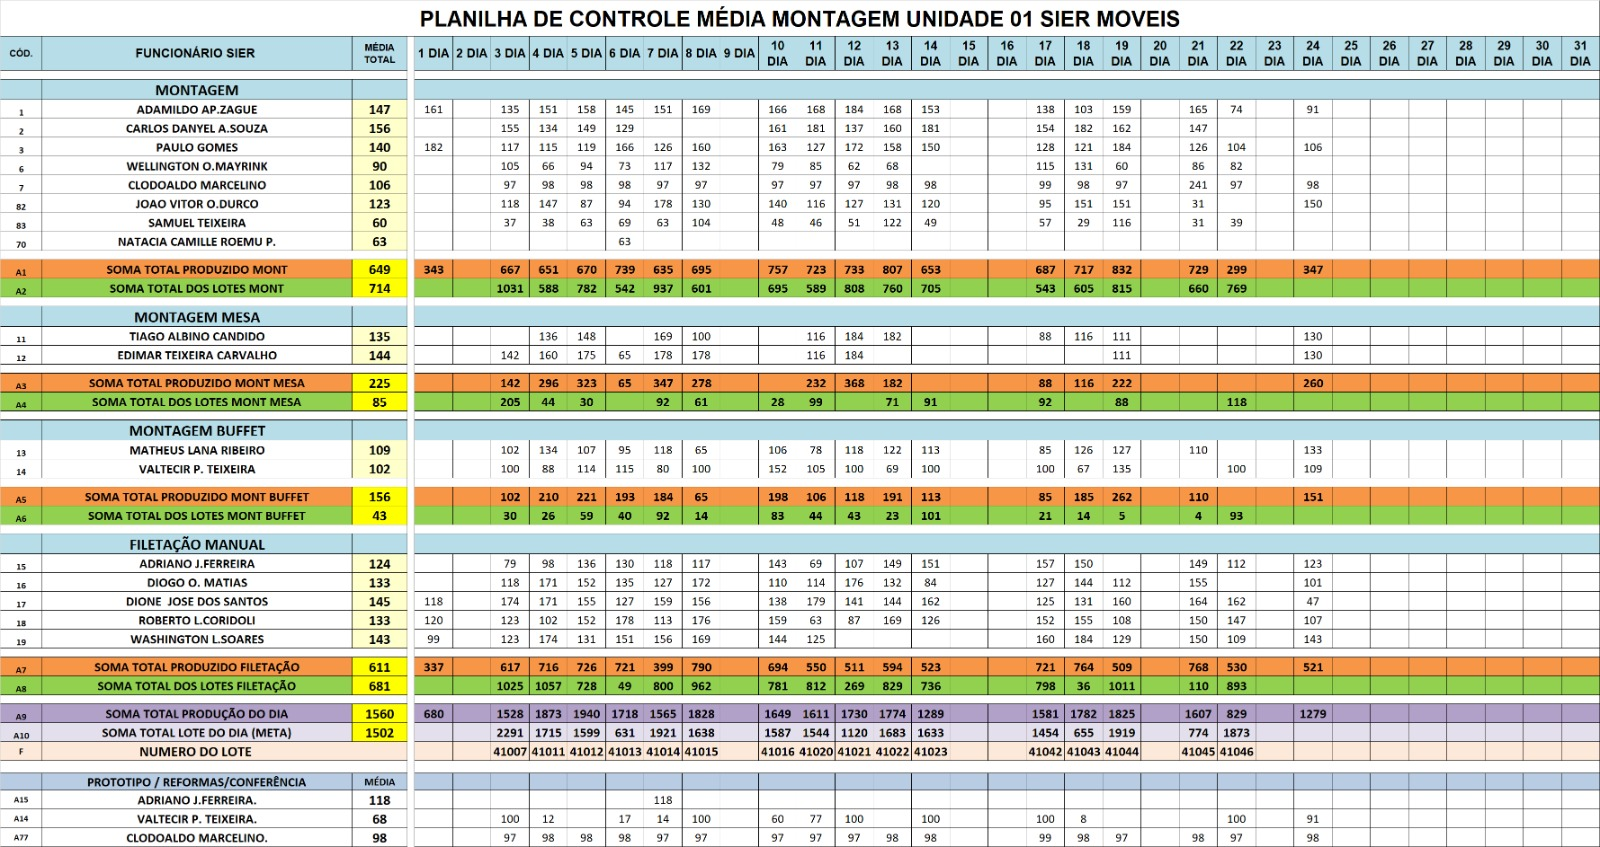
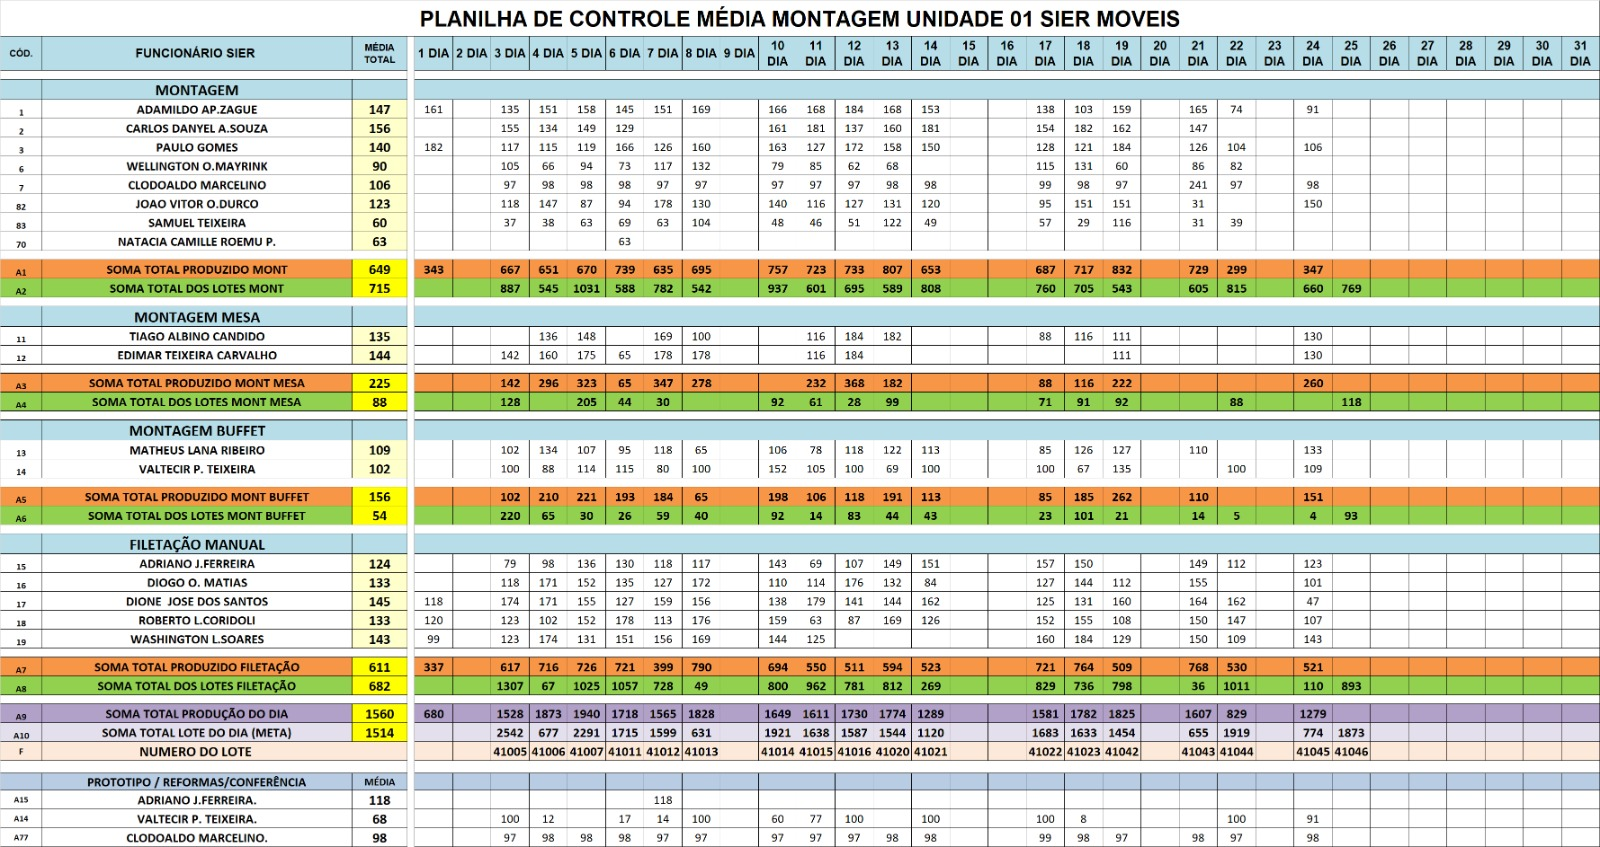
,,

diff --git a/back__incial.js b/back__incial.js
@@ -889,6 +889,7 @@ const unidades = {
             { data: "19/11/2025", captura: ["capturas/Unidade 1/2025/Usinagem/Filetação/11 NOVEMBRO/19.jpg"] },
             { data: "21/11/2025", captura: ["capturas/Unidade 1/2025/Usinagem/Filetação/11 NOVEMBRO/21.jpg"] },
             { data: "22/11/2025", captura: ["capturas/Unidade 1/2025/Usinagem/Filetação/11 NOVEMBRO/22.jpg"] },
+            { data: "24/11/2025", captura: ["capturas/Unidade 1/2025/Usinagem/Filetação/11 NOVEMBRO/24.jpg"] },
 
 
 
@@ -1158,6 +1159,7 @@ const unidades = {
             { data: "19/11/2025", captura: ["capturas/Unidade 1/2025/Usinagem/Montagem/NOVEMBRO/19.jpg"] },
             { data: "21/11/2025", captura: ["capturas/Unidade 1/2025/Usinagem/Montagem/NOVEMBRO/21.jpg"] },
             { data: "22/11/2025", captura: ["capturas/Unidade 1/2025/Usinagem/Montagem/NOVEMBRO/22.jpg"] },
+            { data: "24/11/2025", captura: ["capturas/Unidade 1/2025/Usinagem/Montagem/NOVEMBRO/24.jpg"] },
 
 
 
